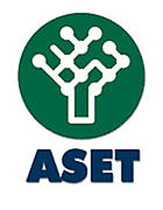
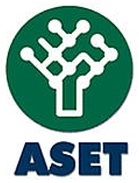
Revisione di allineamenti e spaziature, desktop e mobile
Analisi con screenshot a pagina intera di tutte le pagine a 1440, 1280, 1024,
768 e 390px.

- Header desktop su griglia 2x2: le tre pill formano un blocco con gli stessi
  bordi (prima sede 341px e telefono+email 290px, a scaletta, 3px fra le righe).
- Pagine interne: 48px invece di 96 fra intro e primo contenuto (vuoto di
  110-170px); 36px su mobile.
- Home: colonne di "Chi siamo" allineate in alto; card Vision non piu' stirata
  all'altezza della Mission (~560px di bianco); anteprima clienti 4+4 invece di
  5+3 con due caselle vuote.
- Squadra: linea dei contatti alla stessa altezza in ogni riga di card.
- Griglie loghi in flex con --cols (5/3/2): ultima riga incompleta centrata.
- 7 loghi ritagliati sul marchio (a2a, Cazzaro, Iren, Centria, SGI, Aset, Snam):
  il margine bianco nel file li faceva apparire minuscoli.
- Mobile: etichetta della hero su una riga, pulsanti impilati a larghezza
  uguale, i tre numeri affiancati invece che su tre righe.

Verificato: nessuno sforamento orizzontale su tutte le pagine da 360 a 1920px.

diff --git a/css/style.css b/css/style.css
@@ -139,6 +139,26 @@ strong { font-weight: 600; color: #4a4949; }
 }
 .header-contacts { display: flex; align-items: center; gap: 12px; padding-bottom: 12px; }
 
+/* Desktop: header su griglia 2×2. Colonna sinistra brand + menu, colonna destra le tre
+   pillole come un unico blocco: sede sopra, telefono ed email sotto, stessi bordi.
+   Prima stavano in due righe flex indipendenti e i bordi sinistri risultavano sfalsati
+   (sede 341px, telefono+email 290px) e quasi attaccati in verticale. */
+@media (min-width: 1151px) {
+	.site-header > .wrap {
+		display: grid;
+		grid-template-columns: minmax(0, 1fr) auto;
+		column-gap: 32px;
+		row-gap: 6px;
+		padding-top: 12px;
+	}
+	.header-top, .header-bottom { display: contents; }
+	.header-top .brand { grid-column: 1; grid-row: 1; align-self: center; }
+	.header-top > .pill { grid-column: 2; grid-row: 1; justify-self: stretch; justify-content: center; }
+	.main-nav { grid-column: 1; grid-row: 2; align-self: end; }
+	.header-contacts { grid-column: 2; grid-row: 2; align-self: center; padding-bottom: 0; gap: 10px; }
+	.header-contacts .pill { flex: 1; justify-content: center; }
+}
+
 
 /* --- 4. NAVIGAZIONE ----------------------------------------- */
 .main-nav ul {
@@ -286,6 +306,9 @@ strong { font-weight: 600; color: #4a4949; }
 
 /* hero pagine interne */
 .page-hero { background: var(--white); padding: 56px 0 10px; }
+/* la prima sezione dopo l’intro non riparte con i 96px pieni: sommati al titolo
+   lasciavano un vuoto di 110-170px fra introduzione e contenuto */
+.page-hero + section { padding-top: 48px; }
 .page-hero h1 { margin-bottom: .3em; }
 .page-hero h1::after {
 	content: "";
@@ -321,7 +344,7 @@ section { padding: 96px 0; }
 .sec-head p { margin-bottom: 0; }
 
 /* --- 8. INTRO / FATTI --------------------------------------- */
-.intro-grid { display: grid; grid-template-columns: 1.05fr .95fr; gap: 56px; align-items: center; }
+.intro-grid { display: grid; grid-template-columns: 1.05fr .95fr; gap: 56px; align-items: start; }
 .intro-grid .lead { font-size: 1.16rem; color: #4a4949; }
 
 .facts { display: grid; grid-template-columns: repeat(3, 1fr); gap: 20px; }
@@ -397,7 +420,9 @@ section { padding: 96px 0; }
 .card p { margin: 0; font-size: .98rem; }
 
 /* --- 10. MISSION / VISION ----------------------------------- */
-.mv-grid { display: grid; grid-template-columns: 1fr 1fr; gap: 34px; }
+/* align-items: start: la vision è molto più corta della mission e, stirata, restava
+   con ~560px di bianco vuoto */
+.mv-grid { display: grid; grid-template-columns: 1fr 1fr; gap: 34px; align-items: start; }
 .mv {
 	position: relative;
 	background: var(--white);
@@ -494,7 +519,14 @@ section { padding: 96px 0; }
 .cert p { margin: 0; font-size: .93rem; }
 
 /* --- 12. REFERENZE ------------------------------------------ */
-.logo-grid { display: grid; grid-template-columns: repeat(auto-fill, minmax(185px, 1fr)); gap: 18px; }
+/* flex e non grid: con 25 loghi l’ultima riga incompleta (3 colonne → 1 logo, 2 → 1)
+   resta centrata invece che appesa a sinistra. Colonne: 5 / 3 / 2. */
+.logo-grid { --cols: 5; --gap: 18px; display: flex; flex-wrap: wrap; justify-content: center; gap: var(--gap); }
+.logo-grid > .logo-cell { flex: 0 0 calc((100% - (var(--cols) - 1) * var(--gap)) / var(--cols)); }
+/* anteprima in home: 8 loghi → 4 per riga (2 su telefono), righe sempre piene */
+.logo-grid.preview { --cols: 4; }
+@media (max-width: 900px) { .logo-grid { --cols: 3; } .logo-grid.preview { --cols: 4; } }
+@media (max-width: 620px) { .logo-grid, .logo-grid.preview { --cols: 2; --gap: 12px; } }
 .logo-cell {
 	background: var(--white);
 	border-radius: var(--radius-sm);
@@ -568,7 +600,9 @@ section { padding: 96px 0; }
 }
 .member .certs { list-style: none; margin: 0 0 16px; padding: 0; font-size: .87rem; flex: 1; }
 .member .certs li { padding: 3px 0; }
-.member .contacts { border-top: 1px solid var(--line); padding-top: 14px; font-size: .87rem; }
+/* min-height = due righe (telefono + email): con una riga sola la linea divisoria
+   finiva più in basso che nelle schede vicine */
+.member .contacts { border-top: 1px solid var(--line); padding-top: 14px; font-size: .87rem; min-height: calc(15px + 3.3em); }
 .member .contacts a { display: block; word-break: break-word; }
 
 /* --- 14. CONTATTI ------------------------------------------- */
@@ -759,8 +793,18 @@ section { padding: 96px 0; }
 	.hero { padding: 52px 0 46px; }
 	.hero-logo { padding: 22px; border-radius: var(--radius); }
 	.card, .mv, .member { padding: 28px 24px; }
-	.cards, .cert-grid, .facts, .footer-grid { grid-template-columns: 1fr; }
-	.logo-grid { grid-template-columns: repeat(auto-fill, minmax(140px, 1fr)); }
+	.cards, .cert-grid, .footer-grid { grid-template-columns: 1fr; }
 	.footer-strip { letter-spacing: .16em; font-size: .82rem; }
 	.mobile-nav { padding-top: 100px; }
+	/* etichetta della hero su una riga sola (con .22em andava a capo dentro la pillola) */
+	.hero .eyebrow { letter-spacing: .1em; font-size: .7rem; padding: 7px 14px; }
+	/* pulsanti impilati: stessa larghezza invece di due lunghezze diverse */
+	.hero-actions .btn, .cta-actions .btn { flex: 1 1 100%; text-align: center; }
+	.cta-actions { max-width: 360px; margin: 0 auto; }
+	/* i tre numeri restano affiancati: impilati occupavano tre righe quasi vuote */
+	.facts { grid-template-columns: repeat(3, 1fr); gap: 10px; }
+	.fact { padding: 20px 6px; }
+	.fact .num { font-size: 1.55rem; }
+	.fact .lbl { font-size: .62rem; letter-spacing: .06em; }
+	.page-hero + section { padding-top: 36px; }
 }

diff --git a/index.html b/index.html
@@ -564,7 +564,7 @@
 			<h2>Alcuni dei nostri clienti</h2>
 		</div>
 
-		<div class="logo-grid reveal">
+		<div class="logo-grid preview reveal">
 			<div class="logo-cell"><img src="images/referenze/snam-rete-gas.png" alt="Snam Rete Gas" loading="lazy"></div>
 			<div class="logo-cell"><img src="images/referenze/italgas.jpg" alt="Italgas" loading="lazy"></div>
 			<div class="logo-cell"><img src="images/referenze/a2a.png" alt="A2A" loading="lazy"></div>

diff --git a/CLAUDE.md b/CLAUDE.md
@@ -72,6 +72,14 @@ Due righe, come l'originale:
 - riga 1: brand `CISAC Protezione Catodica srl` + pill "Sede: …"
 - riga 2: nav + pill telefono/email
 
+**Sopra i 1150px il header è una griglia 2×2** (`.site-header > .wrap`, con `.header-top` e
+`.header-bottom` in `display: contents`): a sinistra brand e menu, a destra le tre pill come
+**un unico blocco** con gli stessi bordi — sede sopra, telefono ed email sotto, metà larghezza
+ciascuna. Prima erano due righe flex indipendenti: la pill della sede (341px) era più larga
+di telefono+email (290px), i bordi sinistri risultavano sfalsati a scaletta e fra le due
+righe c’erano 3px. Verificato da 1151 a 1920px: bordi identici, 12px fra le righe, menu e
+pill non si toccano. Sotto i 1150px l’HTML è lo stesso ma vale il layout flex del mobile.
+
 Il quadrato giallo LinkedIn (`.social-sq`) è stato tolto il 16/10/2026 da header, menu
 mobile e footer, insieme al suo CSS e al contenitore `.footer-social` rimasto vuoto.
 
@@ -85,6 +93,20 @@ testo "Anticorrosione strutture interrate". Presente su tutte le pagine sopra il
 ### Squadra
 Card con avatar a **iniziali** (non foto: il sito Wix usa un placeholder generico).
 `.member.lead` = avatar giallo, usato per il CEO.
+`.member .contacts` ha `min-height` pari a **due righe** (telefono + email): così la linea
+divisoria sta alla stessa altezza in tutte le card di una riga anche quando solo una ha il
+telefono. Se una card ne avrà tre, alzare il `min-height`.
+
+### Griglie dei loghi
+`.logo-grid` è **flex**, non grid: con 25 loghi l’ultima riga incompleta resta centrata.
+Colonne con la variabile `--cols`: 5 sopra i 900px, 3 fino a 620px, 2 sotto.
+`.logo-grid.preview` (solo home, 8 loghi) usa 4 colonne, 2 su telefono: righe sempre piene.
+Se in home si cambia il numero di loghi, sceglierlo multiplo di 4.
+
+I file in `images/referenze/` vanno **ritagliati sul marchio**: il riquadro si adatta
+all’immagine intera, quindi un logo con molto margine bianco dentro il file appare minuscolo.
+Il 17/10/2026 sono stati ritagliati a2a (il marchio occupava il 31% del file), Cazzaro (34%),
+Iren (37%), Centria (38%), SGI (50%), Aset (65%) e Snam (70%), lasciando un bordo del 3%.
 
 ### Favicon
 Ricavata dal simbolo del logo (sagoma Italia + tubo diagonale), non dal logo intero:
@@ -371,6 +393,13 @@ immagini. Ha `noindex`, nessun JSON-LD, nessuna voce di menu evidenziata.
 - Questo file è **pubblico** (`www.cisac.it/CLAUDE.md`, repo pubblico): niente credenziali,
   accessi a pannelli o note riservate. Quelle vanno nel `CLAUDE.md` della cartella di lavoro.
 - Anteprima locale: `python -m http.server 8123 --directory sito-cisac`
+- **Verifica grafica dopo ogni modifica al layout**, su più larghezze (1440, 1280, 1024, 768
+  e telefono 390): `_strumenti/cattura_desktop.py` e `_strumenti/cattura_mobile.py` (fuori dal
+  repo) fanno screenshot a pagina intera con il server locale acceso. ⚠ Chrome headless non
+  impagina sotto i **512px**: una cattura "a 390" fatta direttamente è in realtà a 512 ritagliata
+  e sembra che tutto esca dal bordo destro. Per il mobile va usato `cattura_mobile.py`, che
+  carica la pagina in un iframe largo 390px. Svuotare la cartella `chrome-profile` dentro la
+  cartella di output dopo aver cambiato il CSS, o Chrome usa quello in cache.
 
 ## Da completare / verificare con il cliente
 
